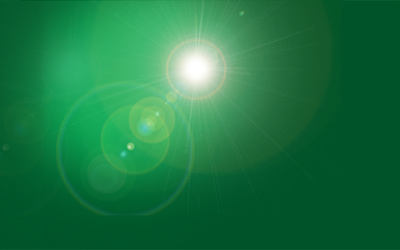
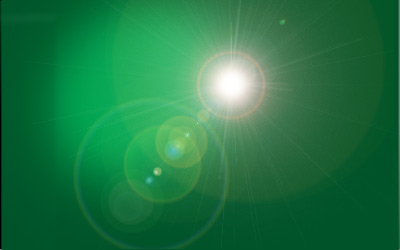
swapped flare, submitting for feedback

diff --git a/300x250/js/script.js b/300x250/js/script.js
@@ -1,1 +1,1 @@
-function startAd(){var ttl=new TimelineLite;ttl.from("#t1",.2,{opacity:0}).to("#t1",.6,{opacity:0},3.2).from("#t2",.6,{opacity:0},3.2).to("#t2",.6,{opacity:0},5).from("#t3",.6,{opacity:0},5).to("#t3",.6,{opacity:0},7).from("#t4",.6,{opacity:0},8.7).to("#t4",.6,{opacity:0,y:-50,ease:Power3.easeIn},11.6).from("#t5",.6,{opacity:0},12);var ptl=new TimelineLite;ptl.from("#p1",.6,{opacity:0,y:-190,ease:Power3.easeIn}).from("#p2",.6,{opacity:0,y:-190,ease:Power3.easeIn},3.8).to("#p2",.4,{opacity:0,x:-5,y:-6,ease:Power3.easeIn},4.8).from("#p2a",.4,{opacity:0,x:5,y:6,ease:Power3.easeIn},4.8).to("#p1",.6,{x:-80,ease:Power3.easeIn},5.3).to("#p2a",.6,{x:-80,ease:Power3.easeIn},5.3);var ftl=new TimelineLite;ftl.from("#bradSparkle",.6,{opacity:0,rotation:180});var ctl=new TimelineLite;ctl.from("#bradCtaButton",.6,{opacity:0,ease:Power3.easeIn}),tl.add(ttl,0),tl.add(ptl,3),tl.add(ftl,8.7),tl.add(ctl,12),tl.totalDuration(15)}function addListeners(){document.getElementById("bradContent").addEventListener("click",clickthrough)}function clickthrough(){EB.clickthrough()}function animationComplete(evt){}function checkInit(){function onInit(){TweenLite.set("#bradContainer",{opacity:1}),addListeners(),startAd()}EB.isInitialized()?onInit():EB.addEventListener(EBG.EventName.EB_INITIALIZED,onInit)}function updateSlider(){$("#slider").slider("value",100*tl.progress())}window.addEventListener("load",checkInit);var tl=new TimelineLite({onUpdate:updateSlider});tl.eventCallback("onComplete",animationComplete),$("#play").click(function(){1!=tl.progress()?tl.play():tl.restart()}),$("#pause").click(function(){tl.pause()}),$("#restart").click(function(){tl.restart()}),$("#slider").slider({range:!1,min:0,max:100,step:.1,slide:function(event,ui){tl.pause(),tl.progress(ui.value/100)}});
+function startAd(){var ttl=new TimelineLite;ttl.from("#t1",.2,{opacity:0}).to("#t1",.6,{opacity:0},3.2).from("#t2",.6,{opacity:0},3.2).to("#t2",.6,{opacity:0},5).from("#t3",.6,{opacity:0},5).to("#t3",.6,{opacity:0},7).from("#t4",.6,{opacity:0},8.7).to("#t4",.6,{opacity:0,y:-50,ease:Power3.easeIn},11.6).from("#t5",.6,{opacity:0},12);var ptl=new TimelineLite;ptl.from("#p1",.6,{opacity:0,y:-190,ease:Power3.easeIn}).from("#p2",.6,{opacity:0,y:-190,ease:Power3.easeIn},3.8).to("#p2",.4,{opacity:0,x:-5,y:-6,ease:Power3.easeIn},4.8).from("#p2a",.4,{opacity:0,x:5,y:6,ease:Power3.easeIn},4.8).to("#p1",.6,{x:-80,ease:Power3.easeIn},5.3).to("#p2a",.6,{x:-80,ease:Power3.easeIn},5.3);var ftl=new TimelineLite;ftl.from("#bradFlare",.6,{opacity:0}).to("#bradFlare",.6,{x:-76,ease:Power3.easeIn},.3).from("#bradSparkle",.6,{opacity:0,rotation:180},.7);var ctl=new TimelineLite;ctl.from("#bradCtaButton",.6,{opacity:0,ease:Power3.easeIn}),tl.add(ttl,0),tl.add(ptl,3),tl.add(ftl,8),tl.add(ctl,11.6),tl.totalDuration(15)}function addListeners(){document.getElementById("bradContent").addEventListener("click",clickthrough)}function clickthrough(){EB.clickthrough()}function animationComplete(evt){}function checkInit(){function onInit(){TweenLite.set("#bradContainer",{opacity:1}),TweenLite.set("#bradFlare",{opacity:.7}),addListeners(),startAd()}EB.isInitialized()?onInit():EB.addEventListener(EBG.EventName.EB_INITIALIZED,onInit)}function updateSlider(){$("#slider").slider("value",100*tl.progress())}window.addEventListener("load",checkInit);var tl=new TimelineLite({onUpdate:updateSlider});tl.eventCallback("onComplete",animationComplete),$("#play").click(function(){1!=tl.progress()?tl.play():tl.restart()}),$("#pause").click(function(){tl.pause()}),$("#restart").click(function(){tl.restart()}),$("#slider").slider({range:!1,min:0,max:100,step:.1,slide:function(event,ui){tl.pause(),tl.progress(ui.value/100)}});

diff --git a/300x250/_/components/js/script.js b/300x250/_/components/js/script.js
@@ -19,15 +19,17 @@ function startAd(){
         .to("#p2a", .6, {x:-80,ease: Power3.easeIn}, 5.3);
     
     var ftl = new TimelineLite();
-    ftl.from("#bradSparkle", .6, {opacity:0, rotation:180});
+    ftl.from("#bradFlare", .6, {opacity:0})
+    .to("#bradFlare", .6, {x: -76,ease: Power3.easeIn}, .3)
+        .from("#bradSparkle", .6, {opacity:0, rotation:180}, .7);
     
     var ctl = new TimelineLite();
     ctl.from("#bradCtaButton", .6, { opacity:0,ease: Power3.easeIn});
     
     tl.add(ttl, 0);
     tl.add(ptl, 3);
-    tl.add(ftl, 8.7);
-    tl.add(ctl, 12);
+    tl.add(ftl, 8);
+    tl.add(ctl, 11.6);
     
     tl.totalDuration(15);
     
@@ -57,6 +59,7 @@ function checkInit() {
                function onInit() {
     
     TweenLite.set("#bradContainer", {opacity:1});
+                   TweenLite.set("#bradFlare", {opacity:.7});
     addListeners();
     startAd();
               } 

diff --git a/300x250/_/components/sass/_adstyles.scss b/300x250/_/components/sass/_adstyles.scss
@@ -39,7 +39,7 @@
           #bradSparkle {
               background-image: url(../img/burst.png);
               position: absolute;
-              top: 34px;
+              top: 36px;
               left: 112px;
               width: 94px;
               height: 91px;
@@ -72,15 +72,15 @@
               background-image: url(../img/t4.png);
               position: absolute;
               top: 48px;
-              left: 173px;
+              left: 175px;
               width: 103px;
               height: 69px;
           }
           #t5 {
               background-image: url(../img/t5.png);
               position: absolute;
-              top: 46px;
-              left: 173px;
+              top: 50px;
+              left: 175px;
               width: 109px;
               height: 94px;
           }

diff --git a/300x250/css/styles.css b/300x250/css/styles.css
@@ -84,7 +84,7 @@ body {
     #bradContainer #bradContent #bradSparkle {
       background-image: url(../img/burst.png);
       position: absolute;
-      top: 34px;
+      top: 36px;
       left: 112px;
       width: 94px;
       height: 91px; }
@@ -113,14 +113,14 @@ body {
       background-image: url(../img/t4.png);
       position: absolute;
       top: 48px;
-      left: 173px;
+      left: 175px;
       width: 103px;
       height: 69px; }
     #bradContainer #bradContent #t5 {
       background-image: url(../img/t5.png);
       position: absolute;
-      top: 46px;
-      left: 173px;
+      top: 50px;
+      left: 175px;
       width: 109px;
       height: 94px; }
     #bradContainer #bradContent #p1 {

diff --git a/300x250/index.html b/300x250/index.html
@@ -19,7 +19,7 @@
     <div id="bradContainer">
         <div id="bradContent">
             
-            <!--<div id="bradFlare"></div>-->
+            <div id="bradFlare"></div>
             
             
             <div id="t1"></div>
